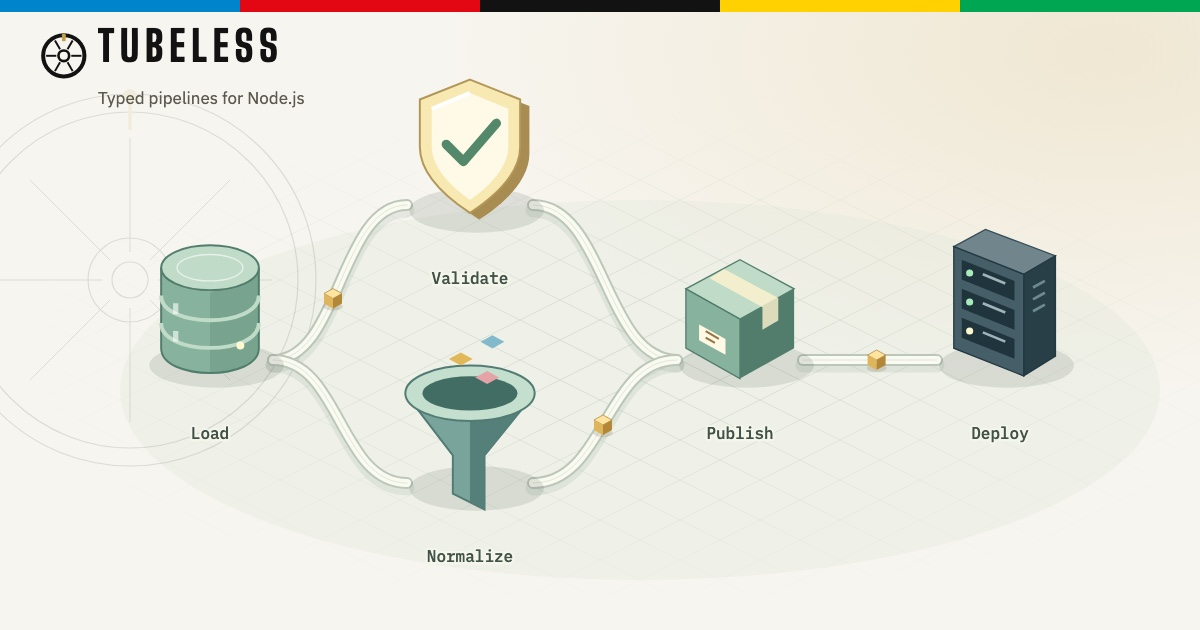
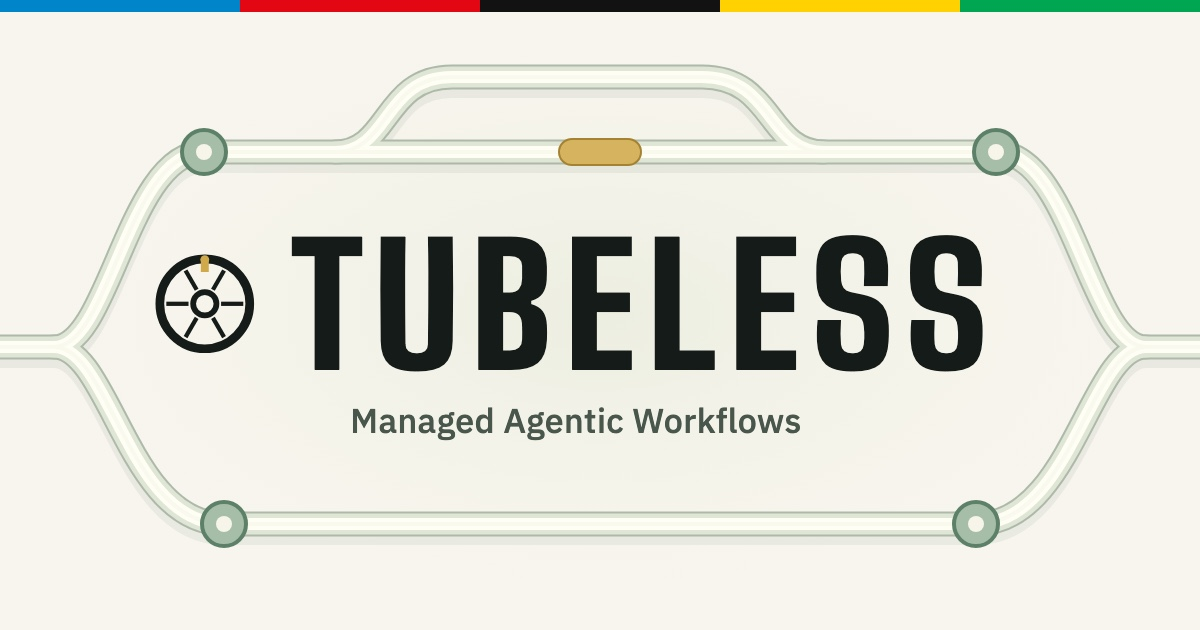
Refresh the Tubeless social card and brand downloads

diff --git a/website/src/pages/brand.md.ts b/website/src/pages/brand.md.ts
@@ -1,11 +1,18 @@
 import type { APIRoute } from "astro";
 import { absUrl } from "../lib/paths";
+import { SOCIAL_IMAGE_URL } from "../lib/social-image";
 
 export const GET: APIRoute = () => new Response(`# Tubeless brand
 
-Logo files for referring to Tubeless in articles, integrations, and community projects.
+Brand assets for referring to Tubeless in articles, integrations, and community projects.
 
 - [Wordmark for light backgrounds](${absUrl("wordmark.svg")})
 - [Wordmark for dark backgrounds](${absUrl("wordmark-inverse.svg")})
 - [Square app icon](${absUrl("logo.svg")})
+
+## Social share image
+
+Managed Agentic Workflows. Use this 1200 × 630 JPEG when sharing Tubeless on social media.
+
+- [Download the social share image](${SOCIAL_IMAGE_URL})
 `, { headers: { "content-type": "text/markdown; charset=utf-8" } });

diff --git a/website/src/lib/social-image.ts b/website/src/lib/social-image.ts
@@ -1,0 +1,12 @@
+import { createHash } from "node:crypto";
+import { readFileSync } from "node:fs";
+import { join } from "node:path";
+import { absUrl, href } from "./paths";
+
+const image = readFileSync(join(__REPO_ROOT__, "website/public/og.jpg"));
+const revision = createHash("sha256").update(image).digest("hex").slice(0, 12);
+const path = `og.jpg?v=${revision}`;
+
+export const SOCIAL_IMAGE_HREF = href(path);
+export const SOCIAL_IMAGE_URL = absUrl(path);
+export const SOCIAL_IMAGE_ALT = "Tubeless — Managed Agentic Workflows. Ivory tubes surround a large wordmark on warm paper, with the five-color brand stripe above.";

diff --git a/website/README.md b/website/README.md
@@ -50,10 +50,10 @@ The build fails when only one variable is set.
 | Agent overview | `src/pages/agent-harness.astro` and its Markdown alternate explain execution, composition, and setup. Recorded test tasks live on the separate examples page. |
 | Agent examples and recordings | `src/pages/agent-examples.astro` and its Markdown alternate; `AgentReplay.astro` displays `public/agent-evaluation.json`. Update the recording only from a passing opt-in evaluation, retaining model/effort/date and replacing disposable workspace prefixes with `<workspace>`. Preserve failed attempts in the candidate's acceptance evidence. `public/agent-delegation.json` is separate, scripted CLI history with local stack paths removed. No live calls run during site builds or replay. |
 | Developer resource hub | `src/pages/developers.astro`, `src/pages/developers.md.ts` |
-| Brand page and downloadable logos | `src/pages/brand.astro`, `src/pages/brand.md.ts`, and `public/wordmark*.svg`; the square mark remains `public/logo.svg` |
+| Brand page and downloadable assets | `src/pages/brand.astro`, `src/pages/brand.md.ts`, and `public/wordmark*.svg`; the square mark remains `public/logo.svg`. The brand page also previews and links to the social share JPEG |
 | Homepage Markdown overview | `src/pages/index.md.ts`; advertised in the homepage head and `llms.txt` |
 | Visual system | `src/styles/global.css` |
-| Logo and social card | `../docs/assets/logo.svg` and `../docs/assets/social.svg`; `bun scripts/rasterize-og.mjs` writes `public/og.jpg` at 1200×630 JPEG. Social metadata appends the package version to refresh crawler caches after releases. `bun scripts/rasterize-icon.mjs` writes `public/apple-touch-icon.png` at 180×180. `public/og.png` is a historical URL only |
+| Logo and social card | `../docs/assets/logo.svg` and `../docs/assets/social.svg`; `bun scripts/rasterize-og.mjs` writes `public/og.jpg` at 1200×630 JPEG. `src/lib/social-image.ts` shares the image URL and alt text between site metadata and the brand page, with a content hash to refresh crawler caches whenever the artwork changes. `bun scripts/rasterize-icon.mjs` writes `public/apple-touch-icon.png` at 180×180. `public/og.png` is a historical URL only |
 
 Refresh captured CLI tapes by running the workbench against `examples/` and
 replacing the strings in `src/data/tapes.ts`.
